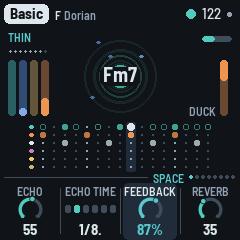
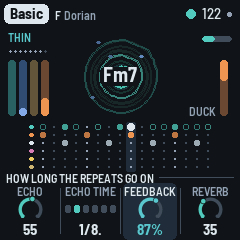
1.3.0: a knob turning, the rule above the knobs says what it does (a line each, KNOB_HELP; the page's name and dots back a moment after); the host's expect helpfit; the manual's eight dots

diff --git a/firmware/src/app/ui.c b/firmware/src/app/ui.c
@@ -115,6 +115,47 @@ static const char *const KNOB_LABEL[NVIEWS][4] = {
     {"Tempo", "Root", "Mode", "Swing"},
     {"Level", "Colour", "Grain", "Drift"},
 };
+/* what each knob does, a line: on the rule above the knobs while it's being turned (in capitals; each fits the
+ * rule's 228 px: the host's expect helpfit) */
+static const char *const KNOB_HELP[NVIEWS][4] = {
+    {"Sweeps the whole mix but the kick", "How restless: stabs come and go", "How often it leaves Full, and sweeps",
+     "Bars before the chord moves on"},
+    {"How often a stab is thrown to the echo", "Stabs a bar, one to six", "How long each stab rings",
+     "The stabs' low-pass: dark to bright"},
+    {"The pings dry, against their echo", "How many notes each loop holds", "The reverb through the grain cloud",
+     "The pings two octaves down to two up"},
+    {"How many of the groove's notes play", "The bass an octave down or up", "The pattern, from sparse to busy",
+     "How often the fifth, not the root"},
+    {"The hats' level against the kick", "How busy the hats are", "Off sixteenths late: the whole groove",
+     "How far the kick pushes the rest down"},
+    {"How much goes into the echo", "The tape loop's length, in beats", "How long the repeats go on",
+     "How much goes into the plate"},
+    {"Fine tuning, in cents", "Notes and clock out over MIDI", "The keys' and buttons' lights",
+     "A turn saves all eight pieces"},
+    {"The chord's level", "The pings' level", "The bass's level", "The drums' level"},
+    {"The strike: a snap, to a swell", "The voice's own colour", "The filter's resonance",
+     "How far each stab opens the filter"},
+    {"The ping, round to metallic", "The modulator: harmonic to clangy", "How long each ping rings",
+     "The pitch falling at the strike"},
+    {"Drive: clean to growling", "A pure sine, to a square", "How long each note holds", "The glide between notes"},
+    {"The kick's pitch, in semitones", "How long the kick booms", "The kick's click and start pitch",
+     "The hats, dark to bright"},
+    {"Which operators modulate which", "Operators 3 and 4's pitch", "Op 4 on itself: pure to gritty",
+     "How fast each note's brightness fades"},
+    {"Which operators modulate which", "Operators 3 and 4's pitch", "Op 4 on itself: pure to gritty",
+     "How fast each note's brightness fades"},
+    {"Which operators modulate which", "Operators 3 and 4's pitch", "Op 4 on itself: pure to gritty",
+     "How fast each note's brightness fades"},
+    {"The slot you're writing", "Its kind (Empty: a gap)", "Triad, 6, 7, Maj7, 9, 11, Add9",
+     "Endless, or the slots in a loop"},
+    {"The lane you're writing", "How much quieter the other steps", "How likely the lane's steps play",
+     "Auto patterns, or your own"},
+    {"Shut: under water. Open: thin", "Dry and tight, to a runaway echo", "Sparse and dry, to busy and bright",
+     "Drier, or wider: reverb and cloud"},
+    {"Beats a minute", "The key's root note", "The scale: Minor, Dorian, ...", "Off sixteenths late: the whole groove"},
+    {"How loud the noise is", "Dark and muffled, to bright", "A smooth hiss, to crackle and dust",
+     "Steady, to restless noises"},
+};
 
 /* the screen's colours: a dark room, as a dub techno sleeve (grey on black, a cold blue). The chord and
  * the scale in teal, the pings in a paler blue, the bass in brass, the drums in amber; dub hold in red.
@@ -2520,12 +2561,22 @@ static void draw_knobs(void)
             caps(t, vn, sizeof t);
             x0 = cv_text(6, -1, &FONT_XS, t, K_DIM) + 5;
         }
-        caps(t, VIEW_NAME[ui.view], sizeof t);
-        xt = xd - 5 - text_w(&FONT_XS, t);
-        cv_rect(x0, 5, xt - 5 - x0, 1, K_LINE);
-        cv_text(xt, -1, &FONT_XS, t, K_ACC);
-        for (k = 0; k < NROUND; k++)             /* (the panel's order: FX ENV LFO GLO HOME SAVE ARP SEQ) */
-            cv_round(xd + k * 6, 3, 4, 4, 2, PAGE_ORDER[k] == page_of(ui.view) ? K_ACC : K_LINE);
+        if (now_touch && ui.touched >= 0 && ui.touched < 4 && !off) {   /* a knob turning: what it does, the rule's
+                                                                          * whole width */
+            char hp[48];
+            caps(hp, KNOB_HELP[ui.view][ui.touched], sizeof hp);
+            cv_rect(0, 0, 240, 12, K_BG);
+            xt = cv_text(6, -1, &FONT_XS, hp, K_TEXT) + 5;
+            if (xt < 234)
+                cv_rect(xt, 5, 234 - xt, 1, K_LINE);
+        } else {
+            caps(t, VIEW_NAME[ui.view], sizeof t);
+            xt = xd - 5 - text_w(&FONT_XS, t);
+            cv_rect(x0, 5, xt - 5 - x0, 1, K_LINE);
+            cv_text(xt, -1, &FONT_XS, t, K_ACC);
+            for (k = 0; k < NROUND; k++)         /* (the panel's order: FX ENV LFO GLO HOME SAVE ARP SEQ) */
+                cv_round(xd + k * 6, 3, 4, 4, 2, PAGE_ORDER[k] == page_of(ui.view) ? K_ACC : K_LINE);
+        }
     }
     for (i = 0; i < 4; i++) {
         int k = VIEW_KNOB[ui.view][i], lo, hi, v, hot = now_touch && ui.touched == (int)i && !off;

diff --git a/host/amb_host.c b/host/amb_host.c
@@ -473,6 +473,17 @@ static int expect(const char *what, const char *val)
         for (i = 0; i < EN_SCOPE_N; i++)
             got = abs(en_scope[i]) > got ? abs(en_scope[i]) : got;
     }
+    else if (!strcmp(what, "helpfit")) {          /* the knobs' help lines too wide for the rule (0: all fit) */
+        int v, k;
+        char hp[48];
+        got = 0;
+        for (v = 0; v < NVIEWS; v++)
+            for (k = 0; k < 4; k++) {
+                caps(hp, KNOB_HELP[v][k], sizeof hp);
+                if (text_w(&FONT_XS, hp) > 222 || strlen(KNOB_HELP[v][k]) >= sizeof hp)
+                    printf("  too wide: %s\n", hp), got++;
+            }
+    }
     else if (!strcmp(what, "viewlayer"))          /* what the scope and spectrum listen to (0 the whole, 1.. a layer) */
         got = en_view_layer;
     else if (!strcmp(what, "octring"))            /* the level ring showing: its layer + 1 (0: none) */

diff --git a/docs/MANUAL.md b/docs/MANUAL.md
@@ -292,10 +292,12 @@ page, below), but never shakes.
   is lit. A layer that's out (in a Break, muted in PERFORM, or at level 0) has an empty lane at once.
   In the stabs' lane, rings show where the echo's repeats land, fainter for each, as the echo's
   time and Feedback have them; each flashes white as the playhead reaches it.
-- **Bottom:** the page's name and seven dots, one a page, then its four values, one for each knob:
-  a dial (or, for a switch, its positions) and the value. The one you're turning lights up.
+- **Bottom:** the page's name and eight dots, one a page, then its four values, one for each knob:
+  a dial (or, for a switch, its positions) and the value. The one you're turning lights up, and
+  while it turns, the line above says what it does ("HOW LONG THE REPEATS GO ON"); a moment after,
+  the page's name and dots are back.
 
-![The Space page with FEEDBACK lit as it turns, set to 87%; ECHO 55, ECHO TIME 1/8., REVERB 35](img/screen-turning.png "Turning Feedback on the Space page")
+![The Space page with FEEDBACK lit as it turns, set to 87%, the line above it saying HOW LONG THE REPEATS GO ON; ECHO 55, ECHO TIME 1/8., REVERB 35](img/screen-turning.png "Turning Feedback on the Space page")
 ![The scope: the output as a thick teal line over a dotted centre line, the two traces before it fading behind; Fm7 at the top](img/screen-scope.png "ALGORITHM: the scope")
 ![The spectrum: eighteen columns of teal and brass segments, a white cap over each; Fm7 at the top](img/screen-spectrum.png "ALGORITHM: the spectrum")
 ![Dub hold: red rings, the chord's name and "hold" in red](img/screen-hold.png "Dub hold")
